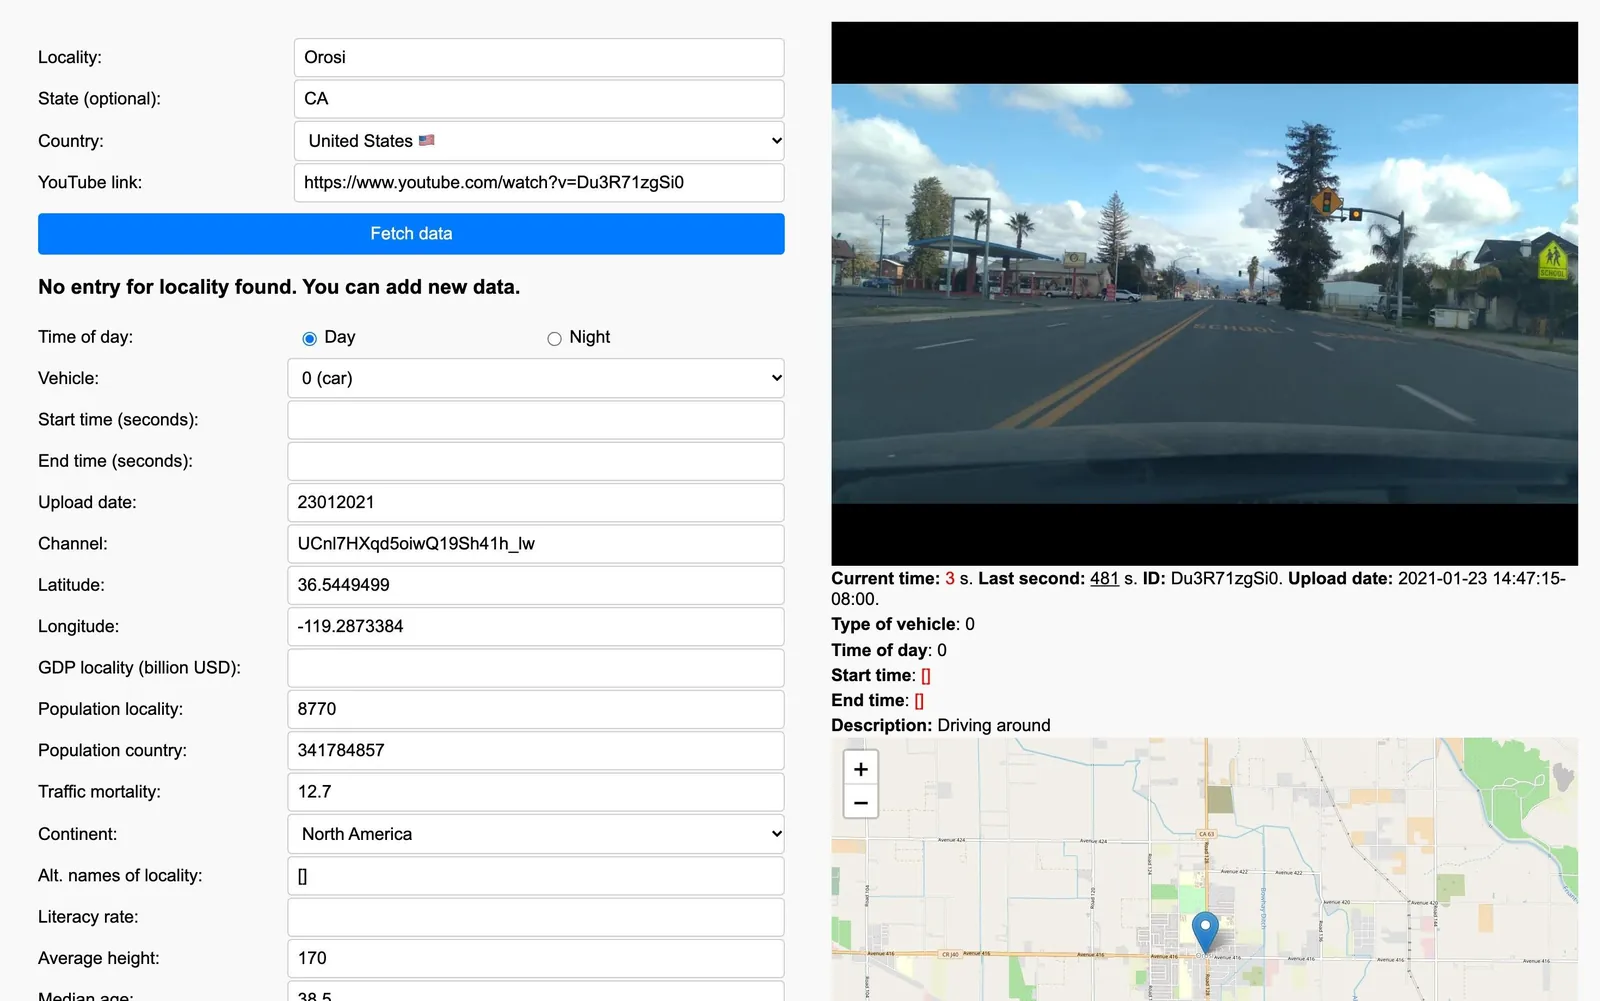
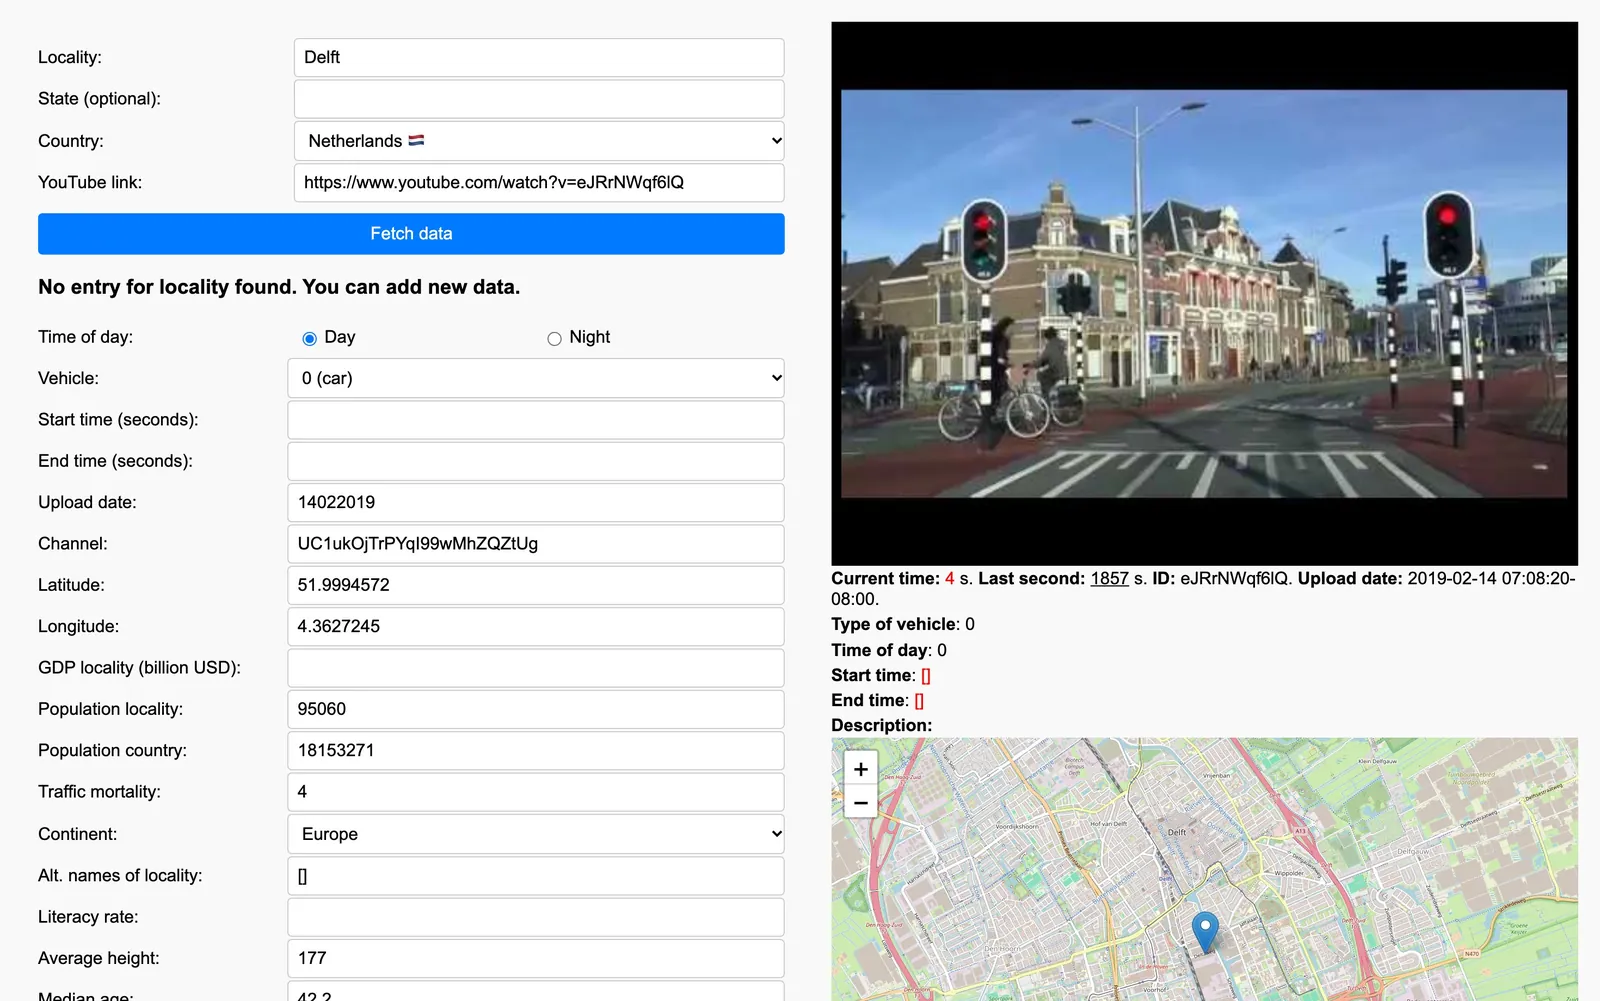
README: Delft as the new-locality example again; review page at 0:01

diff --git a/README.md b/README.md
@@ -1008,7 +1008,7 @@ Adding a video to Delft, Netherlands 🇳🇱 (with no state), before fetching i
 **Fetch data** checks whether the locality is already in the mapping file and looks up the rest. For the video: its upload date and channel from YouTube. For a new locality: its coordinates, population and gross metropolitan product (GDP), the country's population, road deaths, continent, literacy rate, average height, median age and Gini index, and the traffic index (see [The `secret` file](#the-secret-file) for the services used). The video plays next to the form, with the current second of the player, the last second of the video and a map of the locality.
 
 ![Form with new locality](readme/form_new_city.webp)
-A video for Orosi, California 🇺🇸 (state CA), after fetching its data: Orosi is not in the mapping file yet, so the form adds a new locality. Its coordinates are shown on the map under the video; dragging the marker adjusts them.
+The same video after fetching its data, from before Delft was in the mapping file: with no entry for Delft yet, the form adds it as a new locality. Its coordinates are shown on the map under the video; dragging the marker adjusts them.
 
 ![Form with existing locality](readme/form_existing_city.webp)
 Kyiv, Ukraine 💙💛 is in the mapping file (with 569 videos), so the form adds the video to it. This video is in the mapping file already: the form shows its existing segments in red (here from second 1 to 1408) next to the player, so a new segment is added after them or the existing ones can be checked.
